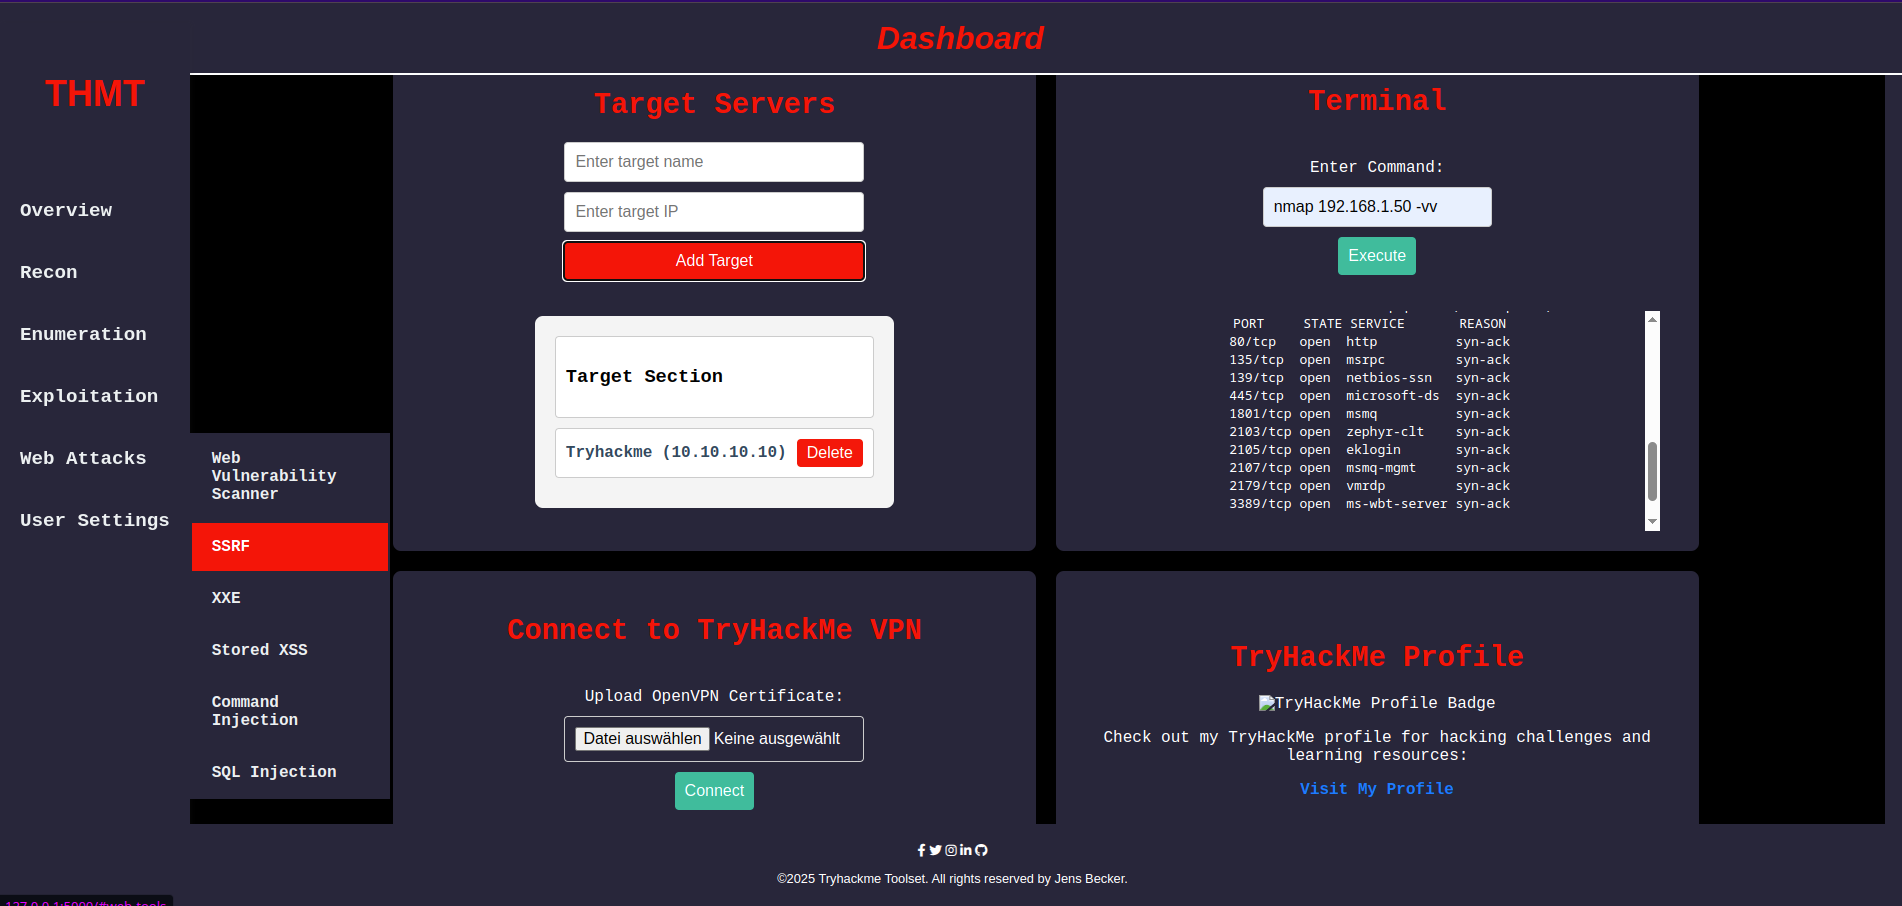
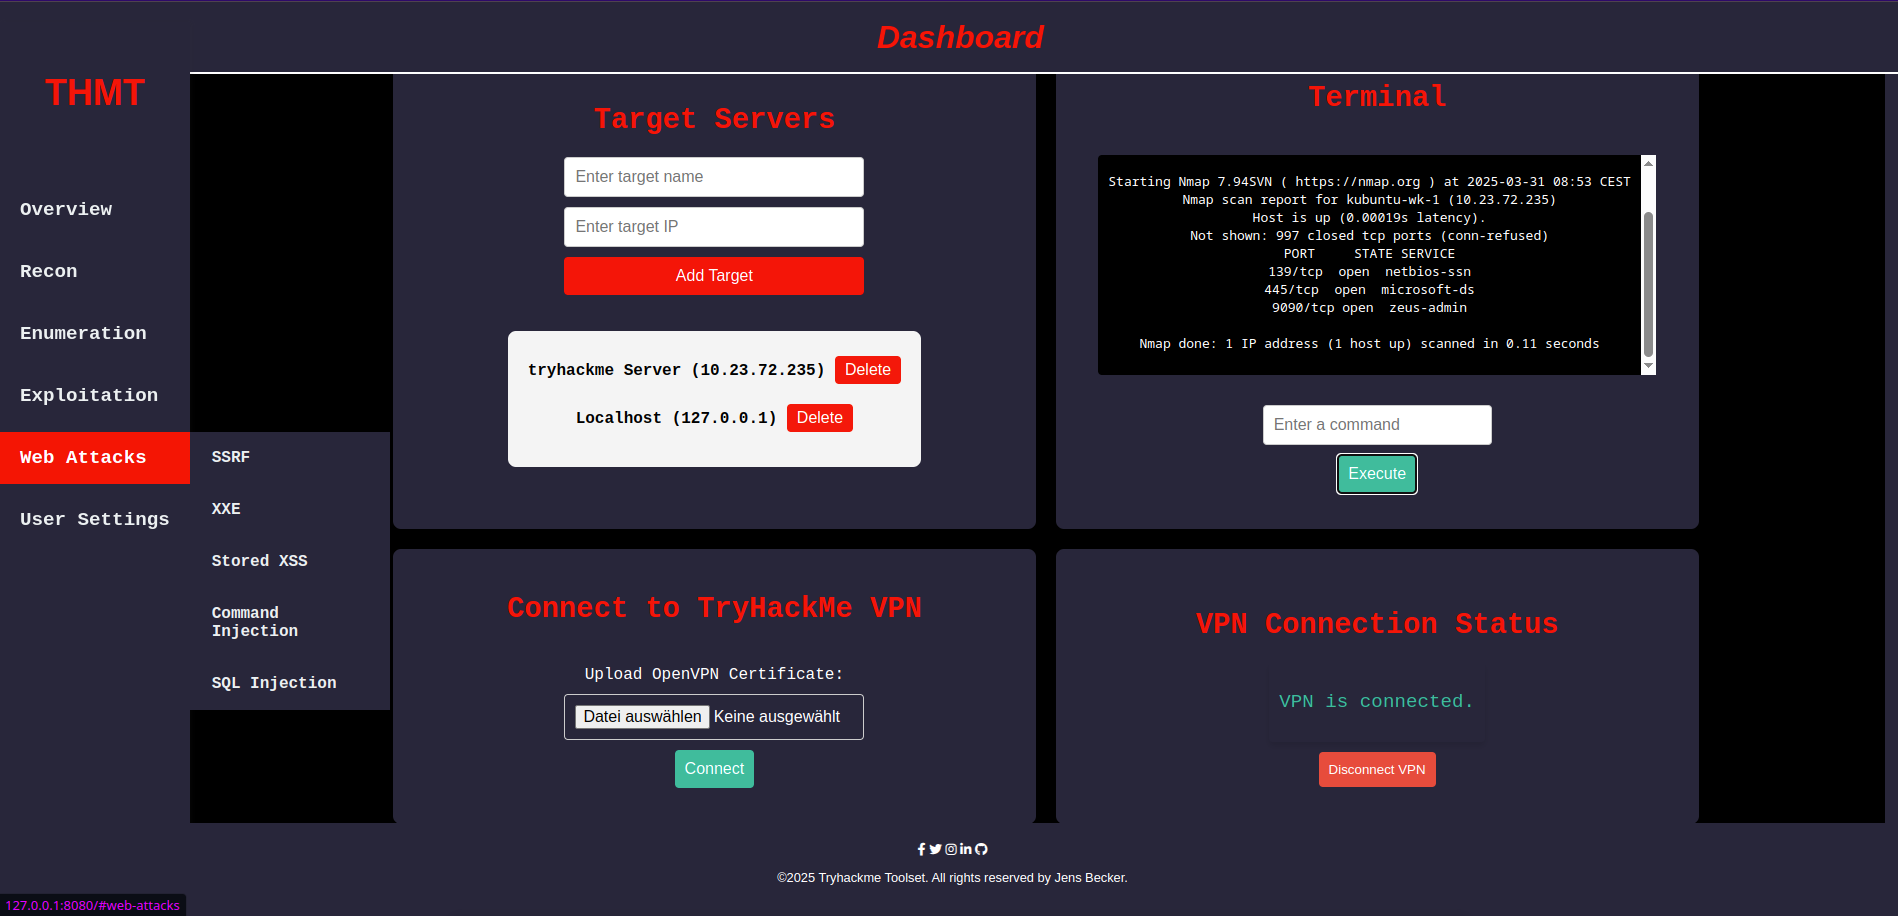
updated README

diff --git a/backend/static/script.js b/backend/static/script.js
@@ -284,3 +284,83 @@ document.getElementById("target-form").addEventListener("submit", (event) => {
     // Clear the form
     event.target.reset();
 });
+
+
+document.addEventListener("DOMContentLoaded", () => {
+    const vpnStatusDiv = document.getElementById("vpn-status");
+
+    // Function to fetch VPN status
+    function fetchVpnStatus() {
+        fetch("/api/vpn-status")
+            .then((response) => response.json())
+            .then((data) => {
+                if (data.status === "connected") {
+                    vpnStatusDiv.innerHTML = `<p style="color: #1abc9c;">${data.message}</p>`;
+                } else if (data.status === "disconnected") {
+                    vpnStatusDiv.innerHTML = `<p style="color: #e74c3c;">${data.message}</p>`;
+                } else {
+                    vpnStatusDiv.innerHTML = `<p style="color: #f39c12;">${data.message}</p>`;
+                }
+            })
+            .catch((error) => {
+                console.error("Error fetching VPN status:", error);
+                vpnStatusDiv.innerHTML = `<p style="color: #e74c3c;">Error checking VPN status.</p>`;
+            });
+    }
+
+    // Fetch VPN status on page load
+    fetchVpnStatus();
+
+    // Optionally, refresh VPN status every 10 seconds
+    setInterval(fetchVpnStatus, 10000);
+});
+
+document.addEventListener("DOMContentLoaded", () => {
+    const vpnStatusDiv = document.getElementById("vpn-status");
+    const disconnectVpnBtn = document.getElementById("disconnect-vpn-btn");
+
+    // Function to fetch VPN status
+    function fetchVpnStatus() {
+        fetch("/api/vpn-status")
+            .then((response) => response.json())
+            .then((data) => {
+                if (data.status === "connected") {
+                    vpnStatusDiv.innerHTML = `<p style="color: #1abc9c;">${data.message}</p>`;
+                    disconnectVpnBtn.style.display = "block"; // Show the disconnect button
+                } else if (data.status === "disconnected") {
+                    vpnStatusDiv.innerHTML = `<p style="color: #e74c3c;">${data.message}</p>`;
+                    disconnectVpnBtn.style.display = "none"; // Hide the disconnect button
+                } else {
+                    vpnStatusDiv.innerHTML = `<p style="color: #f39c12;">${data.message}</p>`;
+                    disconnectVpnBtn.style.display = "none"; // Hide the disconnect button
+                }
+            })
+            .catch((error) => {
+                console.error("Error fetching VPN status:", error);
+                vpnStatusDiv.innerHTML = `<p style="color: #e74c3c;">Error checking VPN status.</p>`;
+                disconnectVpnBtn.style.display = "none"; // Hide the disconnect button
+            });
+    }
+
+    // Fetch VPN status on page load
+    fetchVpnStatus();
+
+    // Optionally, refresh VPN status every 10 seconds
+    setInterval(fetchVpnStatus, 10000);
+
+    // Handle disconnect VPN button click
+    disconnectVpnBtn.addEventListener("click", () => {
+        fetch("/api/vpn-disconnect", {
+            method: "POST",
+        })
+            .then((response) => response.json())
+            .then((data) => {
+                alert(data.message);
+                fetchVpnStatus(); // Refresh VPN status after disconnecting
+            })
+            .catch((error) => {
+                console.error("Error disconnecting VPN:", error);
+                alert("Failed to disconnect VPN.");
+            });
+    });
+});

diff --git a/backend/templates/index.html b/backend/templates/index.html
@@ -96,14 +96,14 @@
                     <!-- Section 2 -->
                     <div class="dashboard-section" id="section-2">
                         <h2>Terminal</h2>
+                        <div id="terminal-output" style="background-color: #000000; color: #ffffff; padding: 10px; margin-top: 20px; height: 200px; overflow-y: auto; border-radius: 4px; font-family: monospace;">
+                            <!-- Command output will be displayed here -->
+                        </div>
                         <form id="terminal-form" action="/execute-command" method="POST">
-                            <label for="command-input">Enter Command:</label>
+                            <label for="command-input"></label>
                             <input type="text" id="command-input" name="command" placeholder="Enter a command" required>
                             <button type="submit">Execute</button>
                         </form>
-                        <div id="terminal-output" style="background-color: #28263a; color: #ffffff; padding: 10px; margin-top: 20px; height: 200px; overflow-y: auto; border-radius: 4px; font-family: monospace;">
-                            <!-- Command output will be displayed here -->
-                        </div>
                     </div>
 
                     <!-- Section 3 -->
@@ -118,10 +118,14 @@
 
                     <!-- Section 4 -->
                     <div class="dashboard-section" id="section-4">
-                        <div id="tryhackme-profile">
-                            <p>Check out my TryHackMe profile for hacking challenges and learning resources:</p>
-                            <a href="https://tryhackme.com/p/anarcho" target="_blank" class="profile-link">Visit My Profile</a>
+                        <h2>VPN Connection Status</h2>
+                        <div id="vpn-status" style="padding: 10px; background-color: #28263a; color: #ffffff; border-radius: 4px;">
+                            <!-- VPN status will be displayed here -->
+                            <p>Checking VPN status...</p>
                         </div>
+                        <button id="disconnect-vpn-btn" style="margin-top: 10px; padding: 10px; background-color: #e74c3c; color: #ffffff; border: none; border-radius: 4px; cursor: pointer;">
+                            Disconnect VPN
+                        </button>
                     </div>
                 </div>
             </div>

diff --git a/backend/static/styles.css b/backend/static/styles.css
@@ -441,11 +441,17 @@ img {
     background-color: #16a085;
 }
 
+/* VPN Status Panel */
 #vpn-status {
-    margin-top: 20px;
-    font-size: 1em;
+    font-size: 1.2em;
+    text-align: center;
+    padding: 20px;
+    background-color: #28263a;
     color: #ffffff;
+    border-radius: 8px;
+    box-shadow: 0 4px 6px rgba(0, 0, 0, 0.1);
 }
+
 /* Modal styling */
 .modal {
     display: none;

diff --git a/backend/app.py b/backend/app.py
@@ -50,7 +50,6 @@ class Target(db.Model):
 with app.app_context():
     db.create_all()
 
-# Decorator to protect routes
 def login_required(f):
     @wraps(f)
     def decorated_function(*args, **kwargs):
@@ -60,6 +59,19 @@ def login_required(f):
         return f(*args, **kwargs)
 
     return decorated_function
+
+@app.route('/api/vpn-status', methods=['GET'])
+@login_required
+def vpn_status():
+    try:
+        # Check if the VPN interface (e.g., tun0) is active
+        result = subprocess.run(['ip', 'a'], stdout=subprocess.PIPE, stderr=subprocess.PIPE, text=True)
+        if 'tun0' in result.stdout:
+            return jsonify({"status": "connected", "message": "VPN is connected."})
+        else:
+            return jsonify({"status": "disconnected", "message": "VPN is not connected."})
+    except Exception as e:
+        return jsonify({"status": "error", "message": f"Error checking VPN status: {str(e)}"}), 500
 
 # Serve the index.html file
 @app.route('/')
@@ -117,6 +129,19 @@ def connect_vpn():
         return redirect(url_for('serve_index'))
 
     return redirect(url_for('serve_index'))
+
+@app.route('/api/vpn-disconnect', methods=['POST'])
+@login_required
+def disconnect_vpn():
+    try:
+        # Terminate the OpenVPN process
+        result = subprocess.run(['sudo', 'pkill', 'openvpn'], stdout=subprocess.PIPE, stderr=subprocess.PIPE, text=True)
+        if result.returncode == 0:
+            return jsonify({"status": "disconnected", "message": "VPN disconnected successfully."})
+        else:
+            return jsonify({"status": "error", "message": "Failed to disconnect VPN."}), 500
+    except Exception as e:
+        return jsonify({"status": "error", "message": f"Error disconnecting VPN: {str(e)}"}), 500
 
 # Login Page
 @app.route('/login', methods=['GET', 'POST'])
